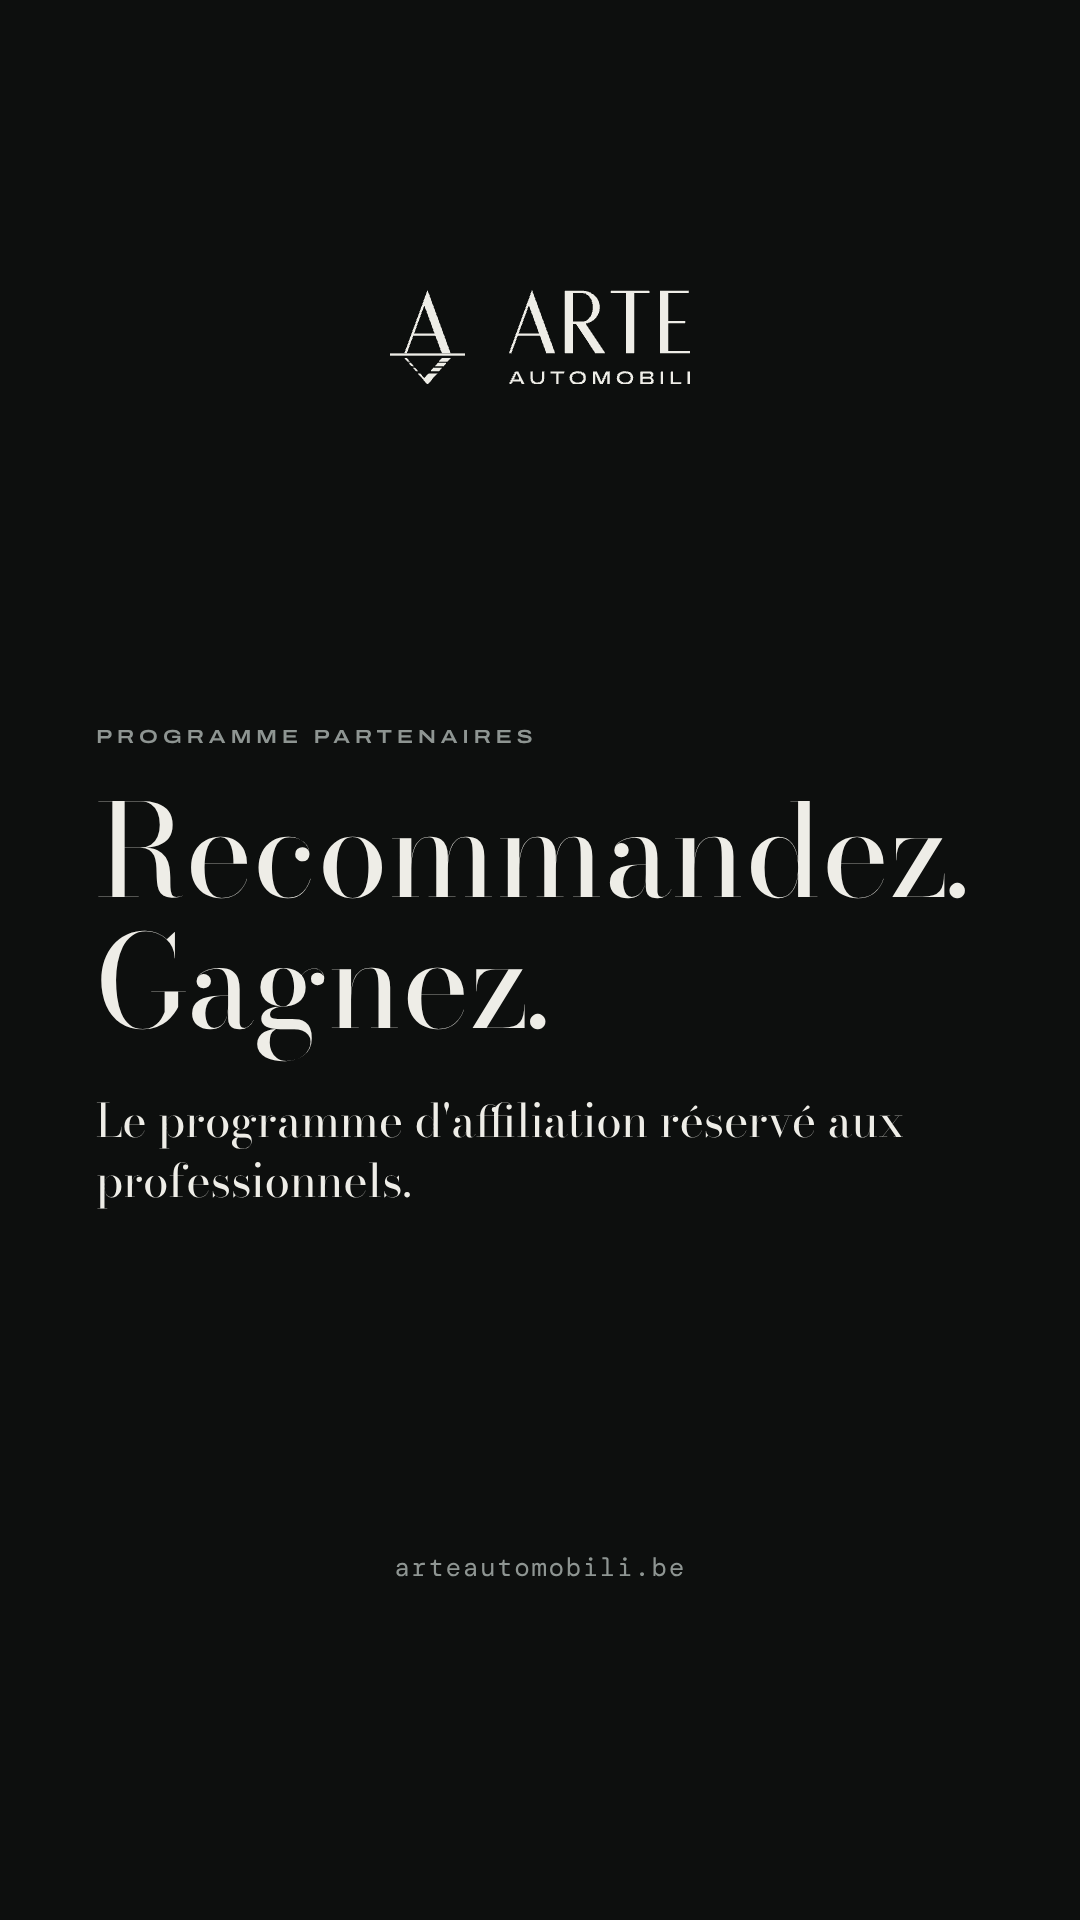
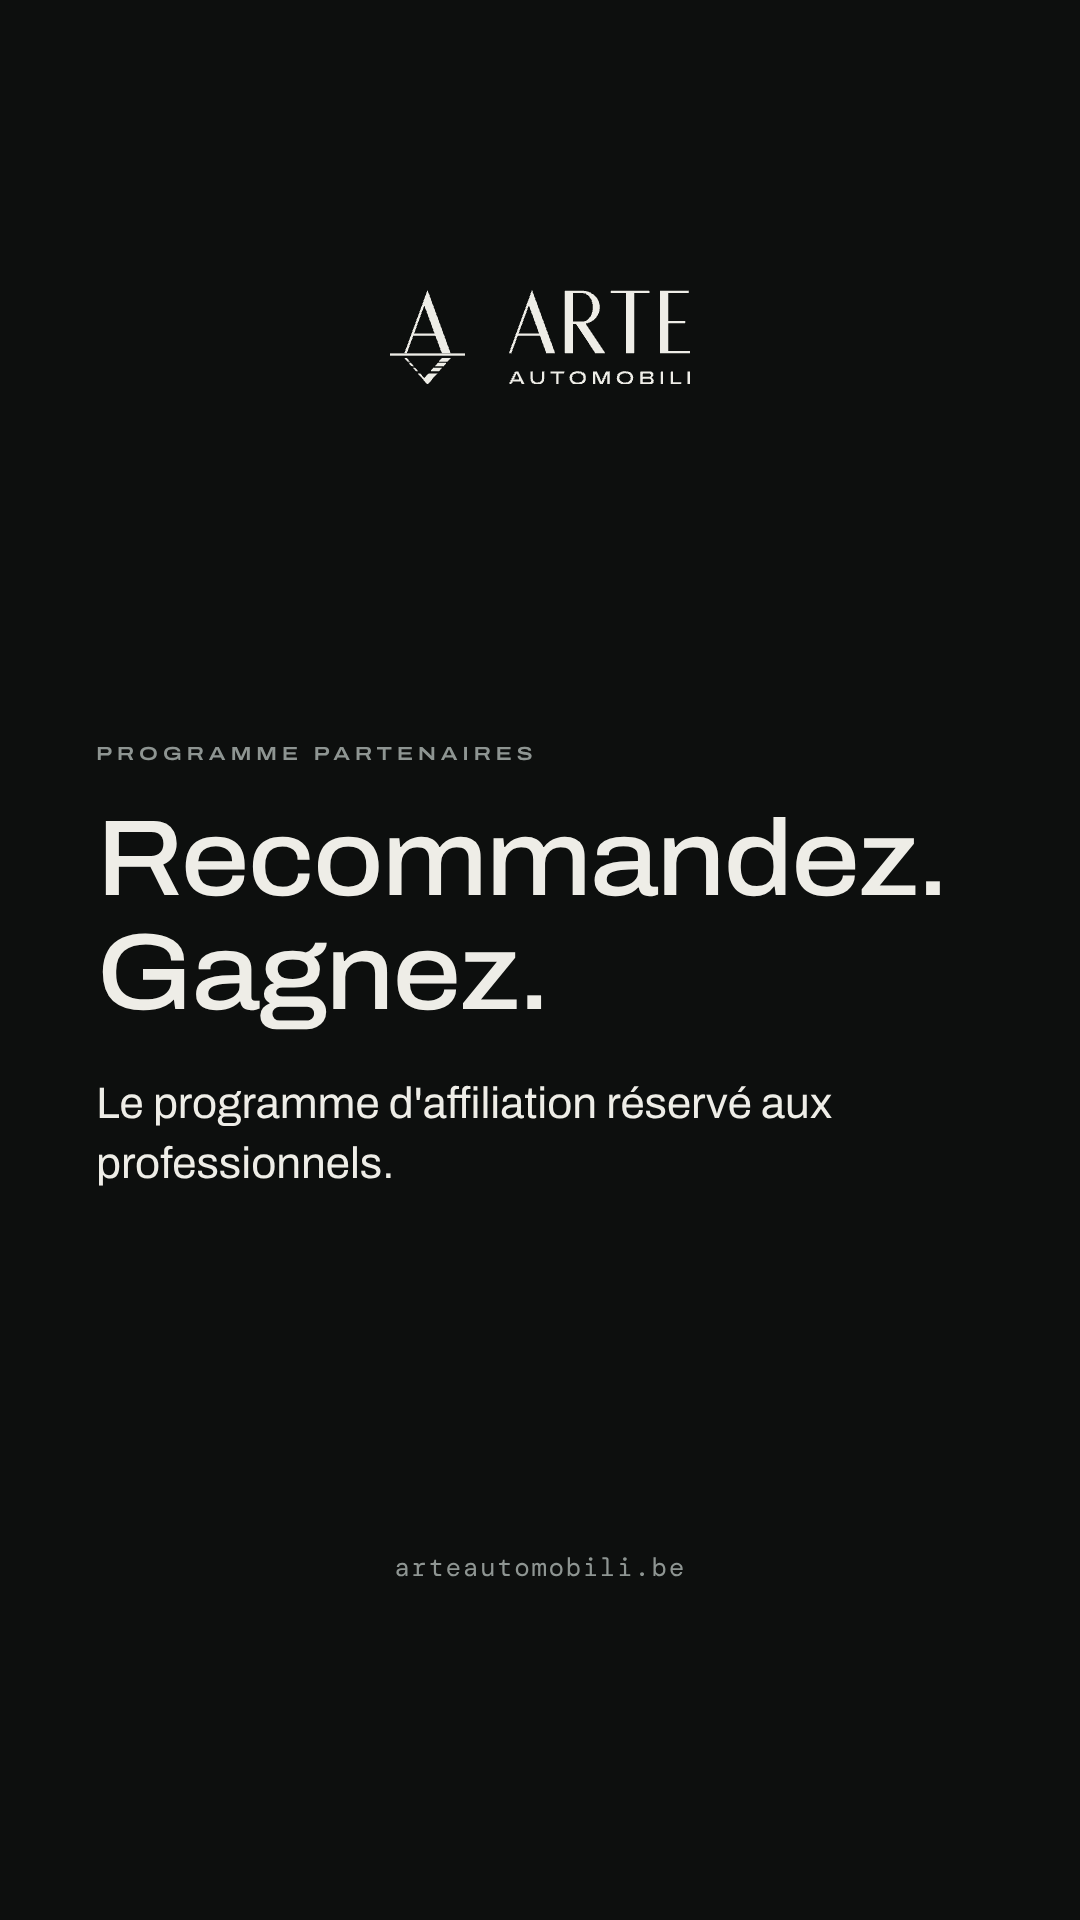
Make partner stories more legible and add payment terms
Titles and body text move from Bodoni to Archivo, the brand's more
legible typeface. The stories now say the commission is paid every
quarter, and the last story points to e-mail or phone for more
information. The quarterly payment is saved in the shared data file.

Claude-Session: https://claude.ai/code/session_01M4iftK2mPXSePoswyiLXhc

Changed region(s): [[0.0917, 0.375, 0.8861, 0.625]]

diff --git a/arte-automobili/_source/reseaux/partenaires.py b/arte-automobili/_source/reseaux/partenaires.py
@@ -1,6 +1,7 @@
 """Stories Instagram du programme partenaires (affiliation réservée aux professionnels), 1080 × 1920 px.
 
-Quatre stories qui se suivent, dans le style de la série tarifs : fond Nero, titres Bodoni, chiffres DM Mono.
+Quatre stories qui se suivent, dans le style de la série tarifs : fond Nero, titres et textes en Archivo (la police
+lisible de la marque, celle du « AUTOMOBILI » du logo), chiffres en DM Mono.
 Taux et base de commission, coordonnées et site viennent de _source/documents/donnees.json. Le contenu reste hors
 des zones couvertes par l'interface d'Instagram (250 px en haut, 340 px en bas).
 Sorties : 20_programme-partenaires/story-partenaires-<n>-<nom>.png
@@ -35,17 +36,18 @@ main{{position:absolute;inset:{HAUT}px 96px {BAS}px;display:flex;flex-direction:
 .logo svg{{display:block}}
 .contenu{{margin:auto 0}}
 .eyebrow{{font:600 19px/1 Archivo,sans-serif;font-stretch:125%;letter-spacing:.24em;text-transform:uppercase;color:#8E9592;margin-bottom:40px}}
-h1{{font:400 128px/1.02 'Bodoni Moda',Didot,serif}}
-h1 i,.chiffre i{{font-style:italic}}
-.texte{{margin-top:44px;font:400 46px/1.3 'Bodoni Moda',serif}}
-.chiffre{{font:400 440px/.9 'Bodoni Moda',serif;letter-spacing:-.02em;margin-left:-12px}}
+h1{{font:500 108px/1.05 Archivo,sans-serif;font-stretch:112%;letter-spacing:-.015em}}
+h1 i,.chiffre i{{font-style:normal}}
+.texte{{margin-top:44px;font:400 44px/1.36 Archivo,sans-serif}}
+.texte strong{{font-weight:600}}
+.chiffre{{font:500 400px/.92 Archivo,sans-serif;font-stretch:112%;letter-spacing:-.03em;margin-left:-14px}}
 .exemple{{margin-top:56px;padding-top:30px;border-top:1.5px solid #EEEDE7;display:flex;justify-content:space-between;
          font:300 34px/1 'DM Mono',monospace;letter-spacing:.02em}}
 .exemple span:first-child{{color:#8E9592}}
 ol{{list-style:none;margin-top:48px;border-top:1.5px solid #EEEDE7}}
 li{{display:flex;gap:44px;align-items:baseline;padding:40px 0 38px;border-bottom:1px solid rgba(238,237,231,.16)}}
 li .n{{flex:none;font:300 34px/1 'DM Mono',monospace;color:#8E9592}}
-li .t{{font:400 46px/1.22 'Bodoni Moda',serif}}
+li .t{{font:400 44px/1.3 Archivo,sans-serif}}
 .contact{{margin-top:56px;border-top:1.5px solid #EEEDE7}}
 .contact p{{padding:34px 0 32px;border-bottom:1px solid rgba(238,237,231,.16);font:300 40px/1 'DM Mono',monospace;letter-spacing:.02em}}
 footer{{text-align:center;font:400 26px/1 'DM Mono',monospace;letter-spacing:.06em;color:#8E9592}}
@@ -64,7 +66,7 @@ STORIES = [
     ("2-commission", page(f"""
     <p class="eyebrow">Votre commission</p>
     <p class="chiffre">{PCT}<i>&#8239;%</i></p>
-    <p class="texte">sur le chiffre d'affaires hors&nbsp;TVA des clients que vous nous apportez.</p>
+    <p class="texte">sur le chiffre d'affaires hors&nbsp;TVA des clients que vous nous apportez. <strong>Réglée {A['versement']}.</strong></p>
     <p class="exemple"><span>Exemple</span><span>1&#8239;000&nbsp;€ HTVA → {10 * A['commission_pct']:g}&nbsp;€</span></p>""")),
     ("3-fonctionnement", page(f"""
     <p class="eyebrow">Comment ça marche</p>
@@ -72,12 +74,13 @@ STORIES = [
     <ol>
       <li><span class="n">01</span><span class="t">Vous nous recommandez à un client.</span></li>
       <li><span class="n">02</span><span class="t">Nous réalisons la prestation.</span></li>
-      <li><span class="n">03</span><span class="t">Vous touchez {PCT}&nbsp;% du montant hors&nbsp;TVA.</span></li>
+      <li><span class="n">03</span><span class="t">Vous touchez {PCT}&nbsp;% du montant hors&nbsp;TVA, {A['versement']}.</span></li>
     </ol>""")),
     ("4-contact", page(f"""
     <p class="eyebrow">Réservé aux professionnels</p>
     <h1>Devenez<br>partenaire<i>.</i></h1>
-    <div class="contact"><p>{X['telephone']}</p><p>{X['email']}</p><p>{X['site']}</p></div>""", pied=False)),
+    <p class="texte">Pour plus d'informations, contactez-nous par e-mail ou par téléphone.</p>
+    <div class="contact"><p>{X['email']}</p><p>{X['telephone']}</p></div>""")),
 ]
 
 if __name__ == "__main__":

diff --git a/arte-automobili/20_programme-partenaires/README.md b/arte-automobili/20_programme-partenaires/README.md
@@ -1,17 +1,17 @@
 # Programme partenaires (affiliation pour les professionnels)
 
-Quatre stories Instagram (1080 × 1920 px) à publier dans l'ordre, dans le style de la série tarifs :
+Quatre stories Instagram (1080 × 1920 px) à publier dans l'ordre, dans le style de la série tarifs. Titres et textes en Archivo, la police lisible de la marque (celle du « AUTOMOBILI » du logo) ; chiffres en DM Mono.
 
 | Story | Contenu |
 |---|---|
 | `story-partenaires-1-couverture.png` | « Recommandez. Gagnez. » Le programme d'affiliation réservé aux professionnels. |
-| `story-partenaires-2-commission.png` | 5 % sur le chiffre d'affaires hors TVA des clients apportés. Exemple : 1 000 € HTVA → 50 €. |
-| `story-partenaires-3-fonctionnement.png` | En trois temps : vous recommandez, nous réalisons la prestation, vous touchez 5 % du montant hors TVA. |
-| `story-partenaires-4-contact.png` | « Devenez partenaire. » Téléphone, e-mail et site. |
+| `story-partenaires-2-commission.png` | 5 % sur le chiffre d'affaires hors TVA des clients apportés, réglée chaque trimestre. Exemple : 1 000 € HTVA → 50 €. |
+| `story-partenaires-3-fonctionnement.png` | En trois temps : vous recommandez, nous réalisons la prestation, vous touchez 5 % du montant hors TVA, chaque trimestre. |
+| `story-partenaires-4-contact.png` | « Devenez partenaire. » Pour plus d'informations : par e-mail ou par téléphone. |
 
 Le contenu évite les zones couvertes par l'interface d'Instagram (250 px en haut, 340 px en bas).
 
-Le taux et la base de commission sont enregistrés dans `_source/documents/donnees.json` (bloc `affiliation`). Si tu changes le taux, relance :
+Le taux, la base et le versement trimestriel de la commission sont enregistrés dans `_source/documents/donnees.json` (bloc `affiliation`). Si tu changes le taux, relance :
 
 ```bash
 python3 _source/reseaux/partenaires.py
@@ -19,10 +19,9 @@ python3 _source/reseaux/partenaires.py
 
 ## À fixer avant de lancer le programme
 
-Les stories ne disent que ce que tu m'as donné : 5 % du chiffre d'affaires hors TVA apporté. Avant les premières demandes, décide :
+Les stories ne disent que ce que tu m'as donné : 5 % du chiffre d'affaires hors TVA apporté, réglés chaque trimestre. Avant les premières demandes, décide :
 
 - **Comment un client est rattaché à un partenaire** : nom du partenaire donné à la réservation, code partenaire, lien dédié…
-- **Quand la commission est versée** : par mois, par trimestre, après paiement du client…
 - **La durée** : seulement la première prestation du client, ou toutes ses prestations pendant une période ?
 - **Un petit accord écrit** avec chaque partenaire, qui reprend ces règles.
 - **Côté comptable** : le partenaire te facture sa commission, et certaines commissions doivent être déclarées (fiche 281.50). Vérifie avec ton comptable.
